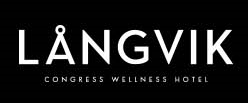
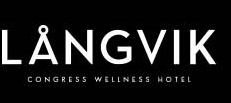
Final ++

Changed region(s): [[0.0, 0.233, 0.9394, 0.6408], [0.1212, 0.7282, 0.8485, 0.8155]]

diff --git a/css/styles.css b/css/styles.css
@@ -428,8 +428,11 @@ color: white;
 	width: 100px;
 	height: 30px;
 	position: absolute;
-	left: 38%;
-	top:360px;
+	left: 0;
+	right: 0;
+	margin-left: auto;
+	margin-right: auto;	
+	bottom: 16%;
 	cursor: pointer;
 }
 
@@ -443,8 +446,7 @@ color: white;
 
 .panel-footer{
 	background-color: black;
-	color: white;
-	
+	color: white;	
 	position: relative;
 }
 

diff --git a/index.html b/index.html
@@ -181,10 +181,7 @@
                     nav.classList.toggle('nav-activate');
                 });
 
-                // navLinks.forEach((link, index) => {
-                //     link.style.animation = `navLinkFade 0.5s ease forwards ${index / 7 + 0.5}s`;
-                // });
-                
+               
             }
 
             navSlide();
